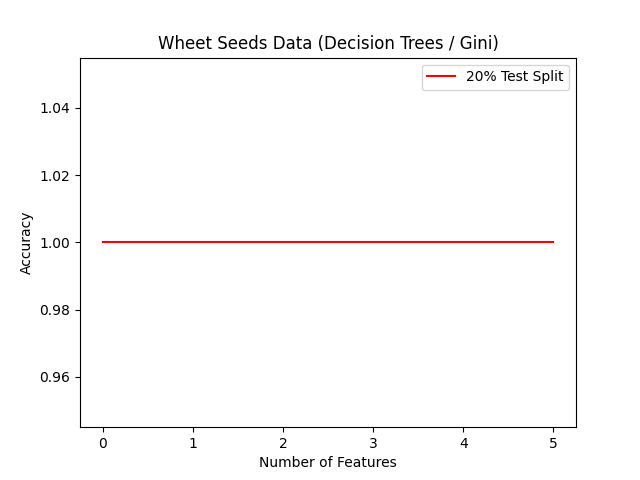
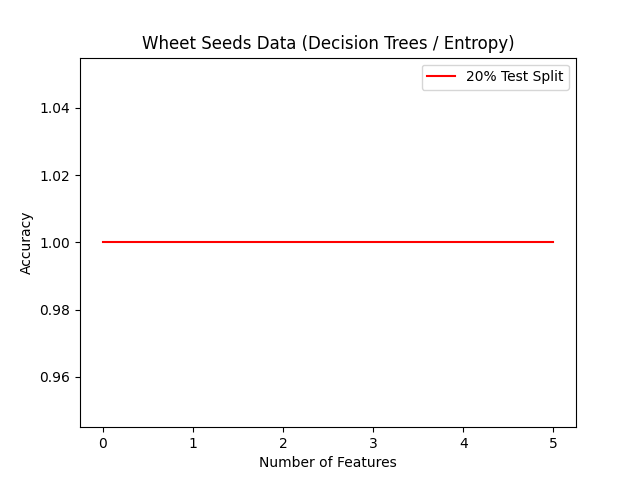
updated graph titles.

Changed region(s): [[0.2188, 0.0625, 0.8125, 0.125]]

diff --git a/A1/randomforests.py b/A1/randomforests.py
@@ -45,7 +45,7 @@ def random_forest(X_train, X_test, y_train, y_test, criterion, n_estimators, max
     y_train_prediction = clf.predict(X_train)
     y_test_prediction = clf.predict(X_test)
 
-    return metrics.accuracy_score(y_train, y_train_prediction)
+    return metrics.accuracy_score(y_test, y_test_prediction)
 
 
 # Use matplotlib to create graphs for results.
@@ -92,7 +92,7 @@ def main():
         seeds_forests_n.append(seeds_forests)
 
     generate_plot("Heart Disease Data (Random Forests / Gini)", "Number of Features", "Accuracy", heart_forests_n, "HeartRFGini")
-    generate_plot("Wheat Seeds Data (Random Forests / Gini)", "Number of Features", "Accuracy", seeds_forests_n, "SeedsRFEntropy_Train")
+    generate_plot("Wheat Seeds Data (Random Forests / Entropy)", "Number of Features", "Accuracy", seeds_forests_n, "SeedsRFEntropy")
 
 
 main()

diff --git a/A1/decisiontrees.py b/A1/decisiontrees.py
@@ -60,7 +60,7 @@ def decision_tree(X_train, X_test, y_train, y_test, criterion, max_features):
             trees.append(clf)
             nodes.append(clf.tree_.node_count)
 
-    return max(training_scores)
+    return max(test_scores)
     
 
 # Use matplotlib to create graphs for results.
@@ -94,7 +94,7 @@ def main():
         seeds_trees.append(decision_tree(X_train_seeds, X_test_seeds, y_train_seeds, y_test_seeds, criterion, max_features))
 
     generate_plot("Heart Disease Data (Decision Trees / Gini)", "Number of Features", "Accuracy", heart_trees, "HeartDTGini")
-    generate_plot("Wheet Seeds Data (Decision Trees / Gini)", "Number of Features", "Accuracy", seeds_trees, "SeedsDTEntropy_Train")
+    generate_plot("Wheet Seeds Data (Decision Trees / Entropy)", "Number of Features", "Accuracy", seeds_trees, "SeedsDTEntropy")
 
 
 main()
